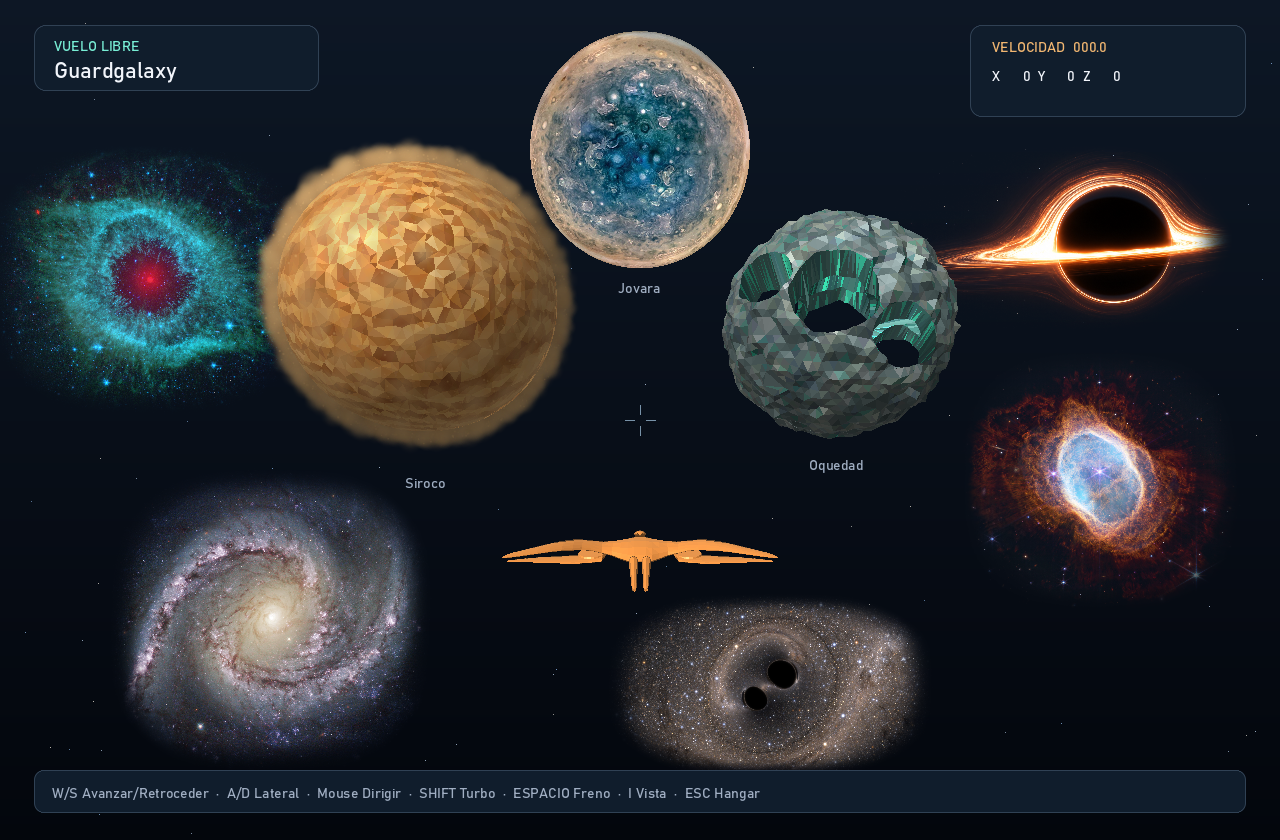
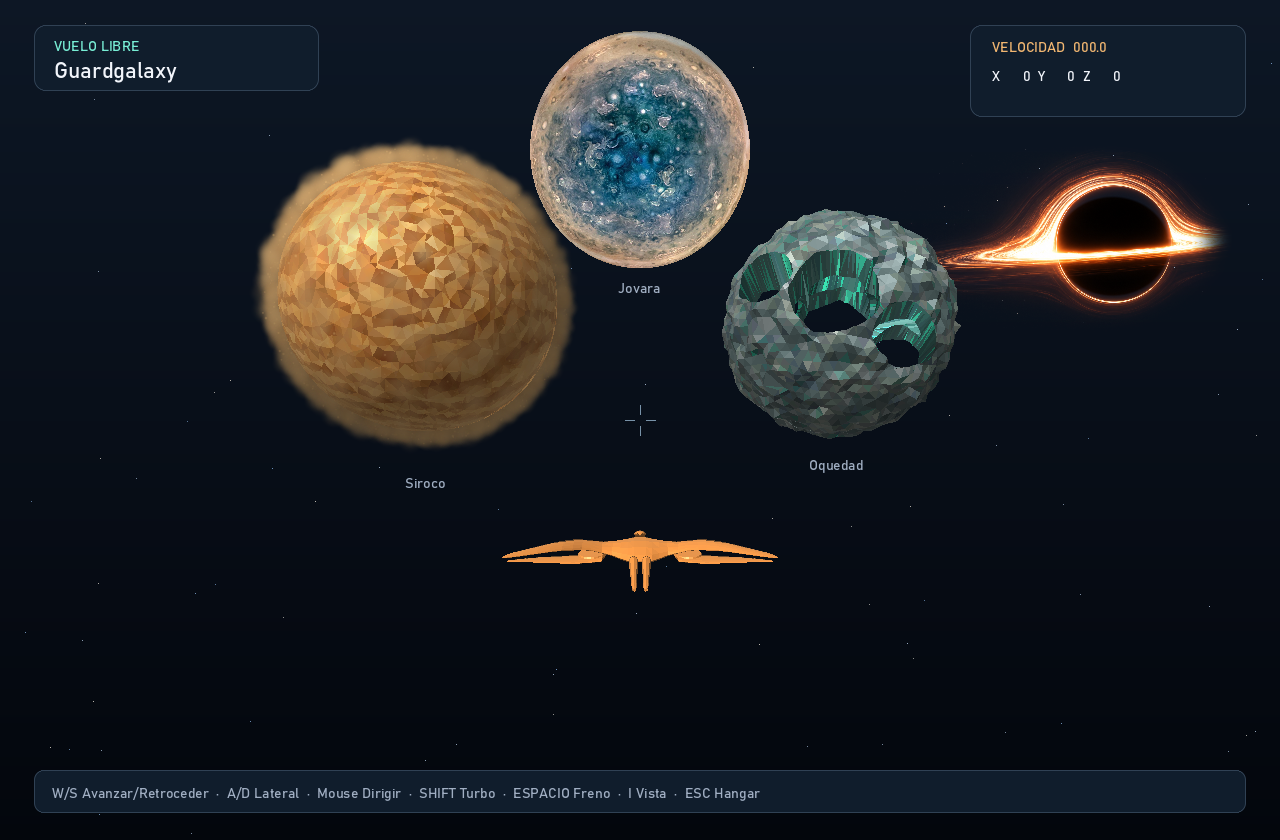
Conserva solo el agujero negro como decoración lejana

diff --git a/src/deep_space.rs b/src/deep_space.rs
@@ -12,8 +12,7 @@ use std::{
     sync::{Arc, OnceLock},
 };
 
-const IDS: [&str; 5] = ["helix", "southern-ring", "binary", "accretion", "spiral"];
-static TEXTURES: OnceLock<Result<Arc<Vec<Texture>>, String>> = OnceLock::new();
+static TEXTURE: OnceLock<Result<Arc<Texture>, String>> = OnceLock::new();
 
 struct Landmark {
     position: Vec3,
@@ -21,8 +20,8 @@ struct Landmark {
 }
 
 pub struct DeepSpace {
-    textures: Arc<Vec<Texture>>,
-    objects: [Landmark; 5],
+    texture: Arc<Texture>,
+    object: Landmark,
 }
 
 fn smooth(value: f32) -> f32 {
@@ -37,80 +36,46 @@ fn edge_fade(u: f32, v: f32) -> f32 {
 }
 
 /// Coordinates use image rows, with y increasing downward.
-fn shadow(index: usize, u: f32, v: f32) -> f32 {
+fn shadow(u: f32, v: f32) -> f32 {
     let ellipse = |x: f32, y: f32, rx: f32, ry: f32| {
         let radius = (((u - x) / rx).powi(2) + ((v - y) / ry).powi(2)).sqrt();
         smooth((1.03 - radius) / 0.06)
     };
-    match index {
-        2 => ellipse(0.536, 0.440, 0.047, 0.083).max(ellipse(0.455, 0.574, 0.038, 0.067)),
-        3 => ellipse(0.670, 0.530, 0.153, 0.237).max(ellipse(0.118, 0.668, 0.017, 0.030)),
-        _ => 0.0,
-    }
+    ellipse(0.670, 0.530, 0.153, 0.237).max(ellipse(0.118, 0.668, 0.017, 0.030))
 }
 
 impl DeepSpace {
     pub fn load() -> Result<Self, Box<dyn Error>> {
-        let textures = TEXTURES
+        let texture = TEXTURE
             .get_or_init(|| {
-                IDS.iter()
-                    .map(|id| {
-                        Texture::load(format!("assets/deep-space/textures/{id}.png"))
-                            .map_err(|e| format!("Escenario {id}: {e}"))
-                    })
-                    .collect::<Result<Vec<_>, _>>()
+                Texture::load("assets/deep-space/textures/accretion.png")
+                    .map_err(|e| format!("Agujero negro: {e}"))
                     .map(Arc::new)
             })
             .as_ref()
             .map(Arc::clone)
             .map_err(Clone::clone)?;
         Ok(Self {
-            textures,
-            objects: [
-                Landmark {
-                    position: Vec3::new(-9650.0, 920.0, -13250.0),
-                    width: 6500.0,
-                },
-                Landmark {
-                    position: Vec3::new(11150.0, -3670.0, -15630.0),
-                    width: 7000.0,
-                },
-                Landmark {
-                    position: Vec3::new(3545.0, -9664.0, -16808.0),
-                    width: 9000.0,
-                },
-                Landmark {
-                    position: Vec3::new(12420.0, 2610.0, -20560.0),
-                    width: 11200.0,
-                },
-                Landmark {
-                    position: Vec3::new(-12330.0, -9670.0, -20850.0),
-                    width: 11000.0,
-                },
-            ],
+            texture,
+            object: Landmark {
+                position: Vec3::new(12420.0, 2610.0, -20560.0),
+                width: 11200.0,
+            },
         })
     }
 
     pub fn draw(&self, fb: &mut Framebuffer, flight: &Flight) {
         let view = FlightView::new(flight, fb.width, fb.height);
-        let mut order = [0, 1, 2, 3, 4];
-        order.sort_by(|a, b| {
-            view.view_point(self.objects[*a].position)
-                .z
-                .total_cmp(&view.view_point(self.objects[*b].position).z)
-        });
-        for index in order {
-            self.draw_object(fb, &view, index);
-        }
+        self.draw_object(fb, &view);
     }
 
-    fn draw_object(&self, fb: &mut Framebuffer, view: &FlightView, index: usize) {
-        let object = &self.objects[index];
+    fn draw_object(&self, fb: &mut Framebuffer, view: &FlightView) {
+        let object = &self.object;
         let Some(center) = view.project(object.position) else {
             return;
         };
         let width = object.width * FLIGHT_FOCAL * center.z;
-        let height = width / self.textures[index].aspect_ratio();
+        let height = width / self.texture.aspect_ratio();
         let (left, top) = (center.x - width * 0.5, center.y - height * 0.5);
         let x0 = left.max(0.0).min(fb.width as f32) as usize;
         let y0 = top.max(0.0).min(fb.height as f32) as usize;
@@ -124,29 +89,27 @@ impl DeepSpace {
                 if fade <= 0.0 {
                     continue;
                 }
-                let color = self.textures[index].sample(Vec2::new(u, 1.0 - v)).to_hex();
-                fb.emission_depth((x, y), center.z, color, fade, shadow(index, u, v) * fade);
+                let color = self.texture.sample(Vec2::new(u, 1.0 - v)).to_hex();
+                fb.emission_depth((x, y), center.z, color, fade, shadow(u, v) * fade);
             }
         }
     }
 
     /// A close view uses the same world projection and compositor as gameplay.
     pub fn preview(&self, fb: &mut Framebuffer, id: &str) -> Result<(), Box<dyn Error>> {
-        let index = IDS
-            .iter()
-            .position(|candidate| *candidate == id)
-            .ok_or_else(|| format!("Escenario desconocido: {id}. Opciones: {}", IDS.join(", ")))?;
-        let object = &self.objects[index];
+        if id != "accretion" {
+            return Err(format!("Escenario desconocido: {id}. Opcion: accretion").into());
+        }
+        let object = &self.object;
         let distance = (object.width * FLIGHT_FOCAL / (fb.width as f32 * 0.90)).max(
-            object.width / self.textures[index].aspect_ratio() * FLIGHT_FOCAL
-                / (fb.height as f32 * 0.90),
+            object.width / self.texture.aspect_ratio() * FLIGHT_FOCAL / (fb.height as f32 * 0.90),
         );
         let mut flight = Flight::new();
         flight.camera.pitch = 0.0;
         flight.position = object.position + Vec3::new(0.0, -1.6, distance - 8.0);
         fb.clear();
         fb.pixels.fill(0x010207);
-        self.draw_object(fb, &FlightView::new(&flight, fb.width, fb.height), index);
+        self.draw_object(fb, &FlightView::new(&flight, fb.width, fb.height));
         Ok(())
     }
 }
@@ -161,10 +124,9 @@ mod tests {
             assert_eq!(edge_fade(u, v), 0.0);
         }
         assert_eq!(edge_fade(0.5, 0.5), 1.0);
-        assert_eq!(shadow(2, 0.536, 0.440), 1.0);
-        assert_eq!(shadow(2, 0.455, 0.574), 1.0);
-        assert_eq!(shadow(3, 0.670, 0.530), 1.0);
-        assert_eq!(shadow(0, 0.5, 0.5), 0.0);
+        assert_eq!(shadow(0.670, 0.530), 1.0);
+        assert_eq!(shadow(0.118, 0.668), 1.0);
+        assert_eq!(shadow(0.5, 0.1), 0.0);
     }
 
     #[test]
@@ -172,7 +134,8 @@ mod tests {
         let space = DeepSpace::load().unwrap();
         let flight = Flight::new();
         let view = FlightView::new(&flight, 1280, 840);
-        for object in &space.objects {
+        {
+            let object = &space.object;
             assert!(object.position.norm() > 15000.0);
             let center = view.project(object.position).unwrap();
             assert!((0.0..1280.0).contains(&center.x));

diff --git a/src/main.rs b/src/main.rs
@@ -53,7 +53,7 @@ fn main() -> Result<(), Box<dyn Error>> {
         let mut selected = 0usize;
         let mut export_screen = Screen::Menu;
         let mut landmark = false;
-        let mut target = "helix";
+        let mut target = "accretion";
         let mut mouse_target = (0.0f32, 0.0f32);
         let mut args = args.iter();
         while let Some(argument) = args.next() {
@@ -99,7 +99,7 @@ fn main() -> Result<(), Box<dyn Error>> {
                 }
                 "--help" => {
                     println!(
-                        "cargo run --release\ncargo run --release -- --render-menu salida.png [--time 4] [--ship 2]\ncargo run --release -- --render-inspector salida.png [--ship 3]\ncargo run --release -- --render-flight salida.png [--ship 1] [--time 2] [--mouse 0.5 -0.3]\ncargo run --release -- --render-landmark salida.png --target helix|southern-ring|binary|accretion|spiral"
+                        "cargo run --release\ncargo run --release -- --render-menu salida.png [--time 4] [--ship 2]\ncargo run --release -- --render-inspector salida.png [--ship 3]\ncargo run --release -- --render-flight salida.png [--ship 1] [--time 2] [--mouse 0.5 -0.3]\ncargo run --release -- --render-landmark salida.png [--target accretion]"
                     );
                     return Ok(());
                 }

diff --git a/assets/deep-space/README.md b/assets/deep-space/README.md
@@ -1,52 +1,25 @@
-# Escenarios del espacio profundo
+# Agujero negro decorativo
 
-Recursos de alta resolución basados en las cinco referencias. Las fotografías
-se convierten a PNG sin recortar ni retocar; conservan su orientación original.
-El script `scripts/fetch_deep_space_sources.py` permite volver a descargarlas
-(Python y Pillow). La ilustración `accretion.png` se conserva en el repositorio.
+El único escenario del espacio profundo es el agujero negro con disco naranja.
+Está en la posición (12420, 2610, −20560), lejos de los planetas, y se ve arriba
+a la derecha al despegar. Su ancho es de 11200 unidades del mundo.
 
-| Recurso | Fuente y créditos |
-| --- | --- |
-| `helix.png` | [Helix, Spitzer, ssc2007-03a1](https://www.spitzer.caltech.edu/image/ssc2007-03a1-comets-kick-up-dust-in-helix-nebula). NASA/JPL-Caltech/K. Su (Univ. of Arizona). [Copia AstroPix y condiciones](https://www.astropix.org/image/spitzer/ssc2007-03a1): dominio público. |
-| `southern-ring.png` | [Southern Ring, Webb, weic2207b](https://esawebb.org/images/weic2207b/). NASA, ESA, CSA, STScI, and Webb ERO Production Team. [CC BY 4.0](https://esawebb.org/copyright/). Imagen limpia de la misma observación, sin la interfaz de la transmisión de la referencia. |
-| `binary.png` | [Two Black Holes Merge into One, LIGO](https://www.ligo.caltech.edu/image/ligo20160211d). The SXS (Simulating eXtreme Spacetimes) Project. Fotograma de una simulación; se conserva el crédito visual de la imagen. |
-| `spiral.png` | [Grand swirls, NGC 1566, Hubble](https://www.astropix.org/image/esahubble/potw1422a). ESA/Hubble & NASA; acknowledgement: Flickr user Det58. CC BY 4.0. |
-| `accretion.png` | Ilustración generada con ImageGen para este proyecto, guiada por la referencia del usuario: disco naranja inclinado, arco de luz, sombra central y pequeño cuerpo oscuro. Es una recreación artística, no una fotografía ni una reproducción exacta. |
+Es una imagen emisiva orientada a la cámara y anclada al mundo. Su proyección
+cambia al girar o desplazarse; la profundidad permite que la nave y los planetas
+pasen por delante. Los bordes se desvanecen sobre el cielo y la sombra central
+oculta el fondo. Es decoración estática, sin gravedad ni colisiones.
 
-Las nebulosas Helix y Southern Ring son nubes de gas. El sistema binario y el
-disco de acreción representan agujeros negros. Estos recursos sirven como
-escenografía distante; no constituyen una simulación de relatividad general.
+`textures/accretion.png` es una ilustración generada con ImageGen para este
+proyecto a partir de la referencia del usuario: disco naranja inclinado, arco
+luminoso, centro oscuro y un pequeño cuerpo oscuro. El efecto de lente está
+representado en la imagen; no es una simulación física.
 
-## Integración y vistas
+![Agujero negro al despegar](previews/en-vuelo.png)
 
-Los cinco objetos están entre 16,400 y 26,100 unidades del origen, mucho más
-lejos que los planetas iniciales. Son imágenes emisivas orientadas a la cámara,
-ancladas a posiciones del mundo: girar cambia su proyección y desplazarse produce
-paralaje. La profundidad permite que los planetas y la nave pasen por delante.
-Los bordes se desvanecen sobre el cielo; las sombras de los agujeros negros
-ocultan las estrellas. El detalle de lente gravitacional está en las imágenes.
-Son escenarios visuales estáticos; no tienen gravedad, colisiones ni superficie
-recorrible. Este enfoque conserva los filamentos de las referencias a distancia.
-
-| Identificador | Posición (X, Y, Z) | Ubicación al despegar |
-| --- | --- | --- |
-| `helix` | −9650, 920, −13250 | Izquierda de Siroco |
-| `southern-ring` | 11150, −3670, −15630 | Derecha, debajo de Oquedad |
-| `binary` | 3545, −9664, −16808 | Abajo, a la derecha de la nave |
-| `accretion` | 12420, 2610, −20560 | Arriba a la derecha |
-| `spiral` | −12330, −9670, −20850 | Abajo a la izquierda |
-
-![Escenarios al despegar](previews/en-vuelo.png)
-
-Para revisar cada recurso con el mismo proyector y compositor del vuelo:
+Para exportar una vista cercana con el mismo renderizador del juego:
 
 ```powershell
-cargo run --release -- --render-landmark output/helix.png --target helix
-cargo run --release -- --render-landmark output/anillo.png --target southern-ring
-cargo run --release -- --render-landmark output/binario.png --target binary
-cargo run --release -- --render-landmark output/agujero.png --target accretion
-cargo run --release -- --render-landmark output/galaxia.png --target spiral
+cargo run --release -- --render-landmark output/agujero.png
 ```
 
-Las capturas verificadas se conservan en `previews/`. Los PNG originales están
-en `textures/`; las vistas exportadas incluyen la mezcla de luz y el desvanecido.
+La captura cercana está en `previews/accretion.png`.

diff --git a/README.md b/README.md
@@ -66,11 +66,10 @@ nave y los planetas, y sigue animándose aunque estés detenido. Las tormentas y
 rotación de los planetas se pausan al inspeccionar la nave o perder el foco; la
 pausa de las vistas previas del hangar no afecta al tiempo del vuelo.
 
-El espacio profundo incluye dos nebulosas, una galaxia espiral, un sistema binario
-de agujeros negros y un agujero negro con disco naranja. Están anclados lejos de
-los planetas y son visibles al despegar. Conservan detalles de imágenes de alta
-resolución mediante escenografía emisiva, con sombras y profundidad; son vistas
-artísticas estáticas. Puedes ver [capturas, posiciones y créditos](assets/deep-space/README.md).
+El espacio profundo conserva un agujero negro con disco naranja como decoración
+lejana, visible al despegar arriba a la derecha. Es una imagen emisiva estática
+anclada al mundo, con sombra y profundidad. Puedes ver
+[capturas, posición y procedencia](assets/deep-space/README.md).
 
 ## Controles de inspección
 
